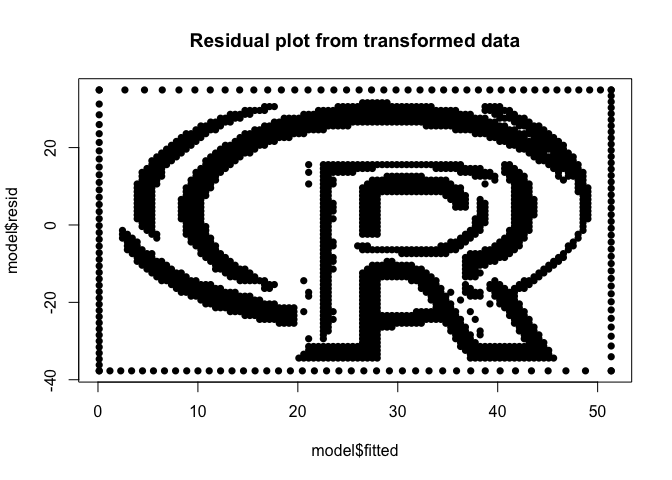
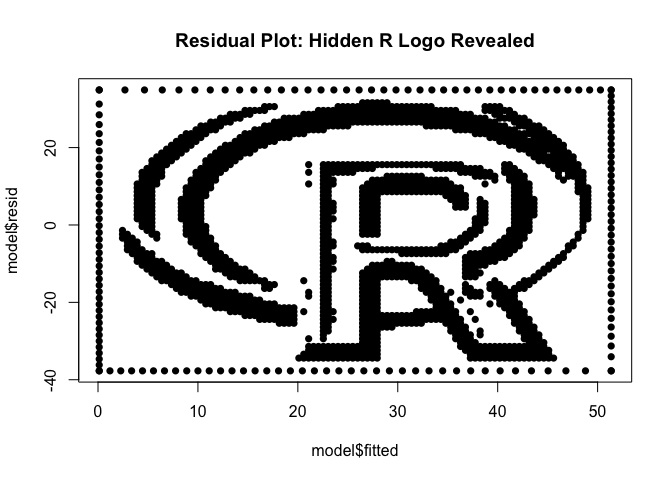
README tweaks

Changed region(s): [[0.25, 0.0625, 0.8125, 0.125]]

diff --git a/README.md b/README.md
@@ -1,18 +1,20 @@
 
 <!-- README.md is generated from README.Rmd. Please edit that file -->
 
-# surreal <img src="man/figures/logo-surreal.png" align ="right" alt="A hexagonal logo of the surreal R package that shows a series of points with varying sizes" width ="150"/>
+# surreal <img src="man/figures/logo-surreal.png" align="right" alt="Logo: points of varying sizes forming a hidden pattern" width="150"/>
 
 <!-- badges: start -->
 
 [![R-CMD-check](https://github.com/coatless-rpkg/surreal/actions/workflows/R-CMD-check.yaml/badge.svg)](https://github.com/coatless-rpkg/surreal/actions/workflows/R-CMD-check.yaml)
 <!-- badges: end -->
 
-The `surreal` package seeks to implement the methods inside the paper
-“Residual Sur(Realism)” by [Leonard A.
-Stefanski](https://www4.stat.ncsu.edu/~stefansk/)
-(<doi:10.1198/000313007X190079>). These methods allow for hiding images
-inside of residual plots.
+## Overview
+
+`surreal` implements the “Residual (Sur)Realism” algorithm described by
+Leonard A. Stefanski (2007). This package allows you to generate
+datasets that reveal hidden images or messages in their residual plots,
+providing a novel approach to understanding and illustrating statistical
+concepts.
 
 ## Installation
 
@@ -24,27 +26,30 @@ You can install the development version of surreal from
 remotes::install_github("coatless-rpkg/surreal")
 ```
 
-## Example
+## Usage
 
-To begin, first load the package:
+First, load the package:
 
 ``` r
 library(surreal)
 ```
 
-Next, we’ll retrieve R logo image included with the package:
+We can take an image with `x` and `y` coordinate positions for pixels
+and embed it into the residual plot.
+
+### Importing Data
+
+As an example, let’s use the built-in R logo dataset:
 
 ``` r
-# Load the R logo data included with the package
 data("r_logo_image_data", package = "surreal")
 
-# Display original data
-plot(r_logo_image_data, pch = 16, main = "Original data")
+plot(r_logo_image_data, pch = 16, main = "Original R Logo Data")
 ```
 
 <img src="man/figures/README-load-logo-1.png" width="100%" />
 
-We can see that the data is in a 2D format.
+The data is in a 2D format:
 
 ``` r
 str(r_logo_image_data)
@@ -61,46 +66,63 @@ summary(r_logo_image_data)
 #>  Max.   :100.00   Max.   : -9.00
 ```
 
-We can apply the surreal method to the data:
+### Applying the Surreal Method
+
+Now, let’s apply the surreal method:
 
 ``` r
-# Apply the surreal method to the data
-transformed_surreal_data <- surreal(r_logo_image_data)
+set.seed(114)
+transformed_data <- surreal(r_logo_image_data)
 ```
 
-After applying the surreal method, we get a series of additional
-predictors that when visualized against `y` look as if they are no
-underlying patterns.
+The transformation adds predictors that appear to have no underlying
+patterns:
 
 ``` r
-# View the expanded data after transformation
-pairs(y ~ ., data = transformed_surreal_data, main = "Data after transformation")
+pairs(y ~ ., data = transformed_data, main = "Data After Transformation")
 ```
 
 <img src="man/figures/README-surreal-method-data-pair-plot-1.png" width="100%" />
 
-Finally, we’ll fit a linear model to the transformed data and plot the
-residuals:
+### Revealing the Hidden Image
+
+Fit a linear model to the transformed data and plot the residuals:
 
 ``` r
-# Fit a linear model to the transformed data
-model <- lm(y ~ ., data = transformed_surreal_data)
-
-# Plot the residuals
-plot(model$fitted, model$resid, type = "n", main = "Residual plot from transformed data")
-points(model$fitted, model$resid, pch = 16)
+model <- lm(y ~ ., data = transformed_data)
+plot(model$fitted, model$resid, pch = 16, 
+     main = "Residual Plot: Hidden R Logo Revealed")
 ```
 
 <img src="man/figures/README-surreal-method-residual-plot-1.png" width="100%" />
 
-From the residual plot, we get back our original R logo that has a
-slight border around it to improve the original image recovery.
+The residual plot reveals the original R logo with a slight border,
+enhancing the image recovery.
+
+## Creating Custom Hidden Images
+
+You can also create datasets with custom hidden images or text. Here’s a
+quick example using text:
+
+``` r
+text_data <- surreal_text("R\nis\nawesome!")
+model <- lm(y ~ ., data = text_data)
+plot(model$fitted, model$resid, pch = 16, main = "Custom Text in Residuals")
+```
+
+<img src="man/figures/README-custom-text-example-1.png" width="100%" />
+
+## References
+
+Stefanski, L. A. (2007). “Residual (Sur)realism”. *The American
+Statistician*, 61(2), 163-177. <doi:10.1198/000313007X190079>
 
 ## Acknowledgements
 
-Prior work was done to bring the algorithms into R by [John
+This package builds upon the work of [John
 Staudenmayer](https://www4.stat.ncsu.edu/~stefansk/NSF_Supported/Hidden_Images/000_R_Programs/John_Staudenmayer/),
 [Peter
 Wolf](https://www4.stat.ncsu.edu/~stefansk/NSF_Supported/Hidden_Images/000_R_Programs/Peter_Wolf/),
 and [Ulrike
-Gromping](https://www4.stat.ncsu.edu/~stefansk/NSF_Supported/Hidden_Images/000_R_Programs/Ulrike_Gromping/).
+Gromping](https://www4.stat.ncsu.edu/~stefansk/NSF_Supported/Hidden_Images/000_R_Programs/Ulrike_Gromping/),
+who initially brought these algorithms to R.
